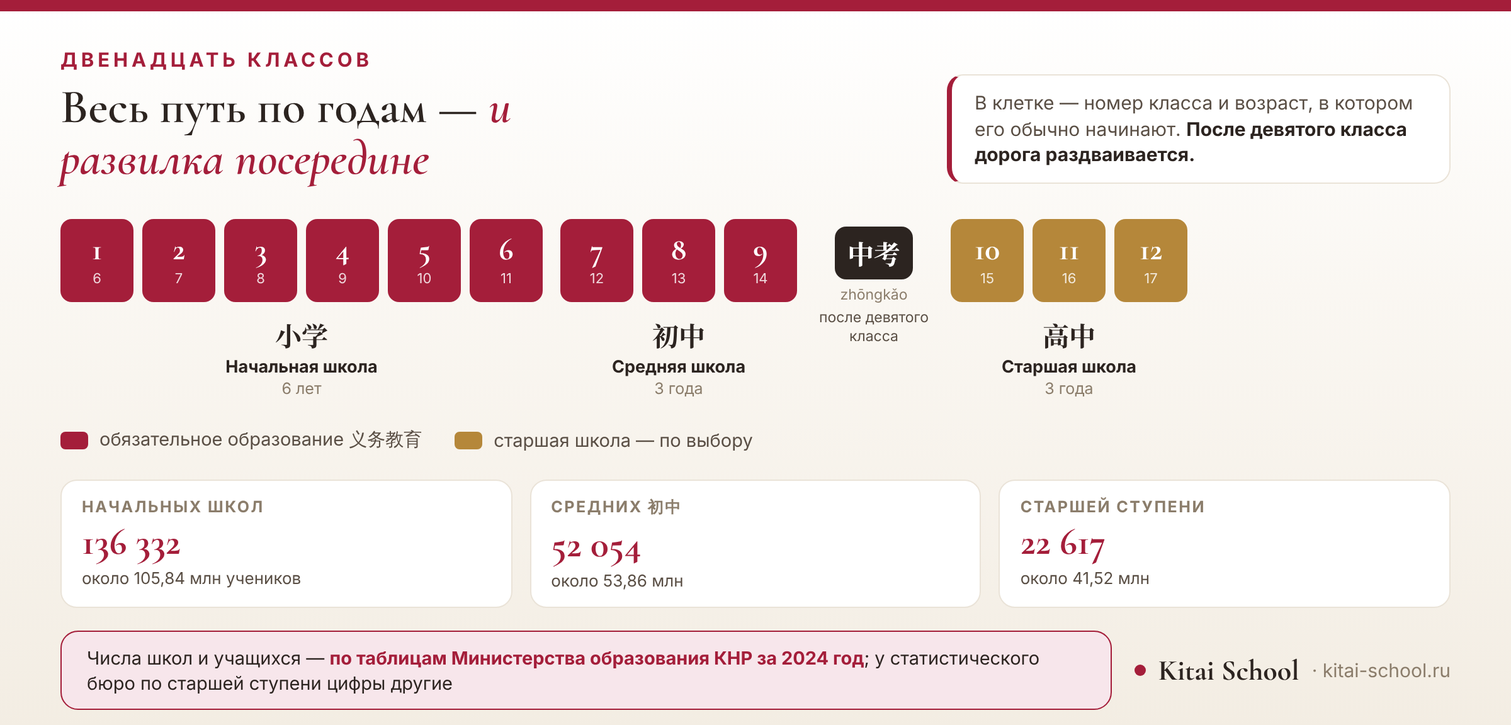
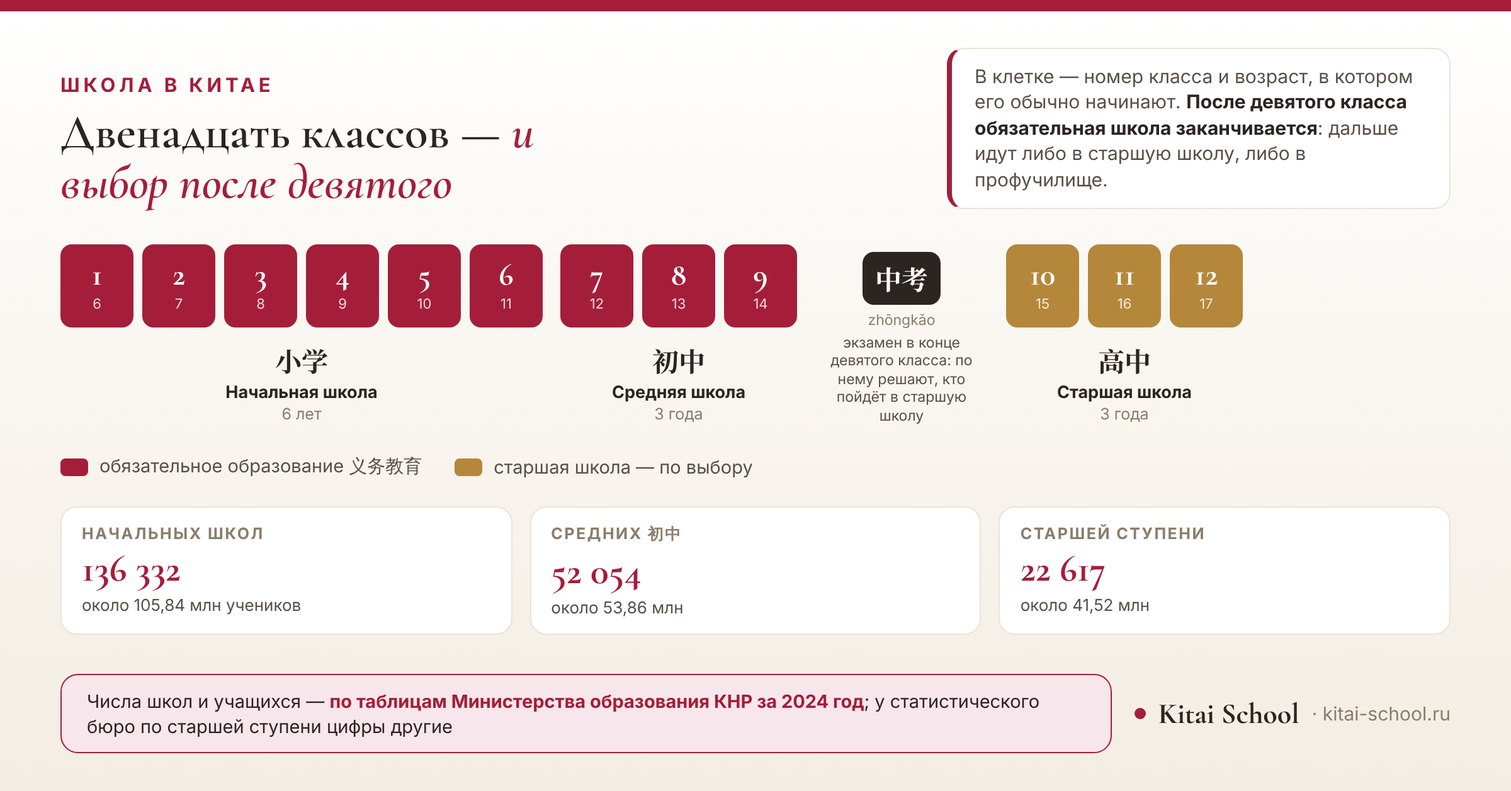
Понятнее про девятый класс: убрана «развилка»
На инфографике заголовок стал «Двенадцать классов — и выбор после
девятого», подсказка объясняет прямо: обязательная школа
заканчивается, дальше либо старшая школа, либо профучилище. Подпись
под 中考 говорит, что решается по этому экзамену.

То же в тексте: «развилка», «дорога раздваивается» и «разные дороги»
заменены прямыми формулировками — в og:description, подводке, FAQ,
alt и JSON-LD. Высота картинки 628.

43 021 знак, инфографика 26,49 %, история 37,41 %.

Claude-Session: https://claude.ai/code/session_017dS7Wuw6MNB5fnZSr6hVh2

diff --git a/content/blog/skolko-klassov-uchatsya-v-kitae.html b/content/blog/skolko-klassov-uchatsya-v-kitae.html
@@ -8,7 +8,7 @@
 <link rel="canonical" href="https://kitai-school.ru/article/skolko-klassov-uchatsya-v-kitae">
 <meta property="og:type" content="article">
 <meta property="og:title" content="Сколько классов учатся в Китае: ступени образования и возраст школьников">
-<meta property="og:description" content="Двенадцать лет, три ступени и один экзамен посередине, после которого дорога раздваивается.">
+<meta property="og:description" content="Двенадцать лет и три ступени, а после девятого класса обязательная школа заканчивается и нужно выбирать.">
 <meta property="og:url" content="https://kitai-school.ru/article/skolko-klassov-uchatsya-v-kitae">
 <meta property="og:image" content="assets/kl-hero.png">
 <meta property="og:image:alt" content="Три плитки ступеней китайской школы: 小学 шесть лет, 初中 три года, 高中 три года">
@@ -16,7 +16,7 @@
 <meta property="og:locale" content="ru_RU">
 <meta name="twitter:card" content="summary_large_image">
 <meta name="twitter:title" content="Сколько классов учатся в Китае: ступени образования и возраст школьников">
-<meta name="twitter:description" content="Двенадцать лет, три ступени и один экзамен посередине, после которого дорога раздваивается.">
+<meta name="twitter:description" content="Двенадцать лет и три ступени, а после девятого класса обязательная школа заканчивается и нужно выбирать.">
 <meta name="twitter:image" content="assets/kl-hero.png">
 <meta name="robots" content="index, follow, max-image-preview:large, max-snippet:-1">
 
@@ -28,7 +28,7 @@
       "@type": "BlogPosting",
       "@id": "https://kitai-school.ru/article/skolko-klassov-uchatsya-v-kitae#article",
       "headline": "Сколько классов учатся в Китае: ступени образования и возраст школьников",
-      "description": "Китайская школа состоит из двенадцати классов и трёх ступеней: начальная 小学 шесть лет с шести до двенадцати, средняя 初中 три года с двенадцати до пятнадцати, старшая 高中 три года с пятнадцати до восемнадцати. Первые девять лет — обязательное образование 义务教育, старшая школа в него не входит, и после девятого класса путь раздваивается. Приводим статистику Министерства образования КНР за 2024 год по числу школ и учащихся на каждой ступени и объясняем, почему она расходится с данными статистического бюро.",
+      "description": "Китайская школа состоит из двенадцати классов и трёх ступеней: начальная 小学 шесть лет с шести до двенадцати, средняя 初中 три года с двенадцати до пятнадцати, старшая 高中 три года с пятнадцати до восемнадцати. Первые девять лет — обязательное образование 义务教育, старшая школа в него не входит, и после девятого класса нужно выбирать между старшей школой и профессиональным училищем. Приводим статистику Министерства образования КНР за 2024 год по числу школ и учащихся на каждой ступени и объясняем, почему она расходится с данными статистического бюро.",
       "image": "assets/kl-hero.png",
       "inLanguage": "ru",
       "datePublished": "2026-11-05",
@@ -69,7 +69,7 @@
         {"@type": "Question", "name": "До какого возраста учатся в старшей школе?", "acceptedAnswer": {"@type": "Answer", "text": "Примерно до восемнадцати. Старшая школа занимает три года и начинается около пятнадцати лет, так что выпускаются в восемнадцать — если ребёнок пошёл в первый класс в шесть и нигде не задерживался на второй год."}},
         {"@type": "Question", "name": "Сколько лет обязательного образования в Китае?", "acceptedAnswer": {"@type": "Answer", "text": "Девять: начальная и средняя школа вместе. Это называется 义务教育. Старшая школа в обязательную часть уже не входит, и вес экзамена после девятого класса идёт именно отсюда."}},
         {"@type": "Question", "name": "Сколько школ в Китае?", "acceptedAnswer": {"@type": "Answer", "text": "По таблицам Министерства образования КНР за 2024 год: 136 332 обычные начальные школы, 52 054 школы ступени 初中 и 22 617 школ старшей ступени, включая профессиональные. Оговорка: у статистического бюро по старшей ступени цифры другие — около 25 тысяч, потому что в его отчёте шире границы категорий."}},
-        {"@type": "Question", "name": "Обязательно ли идти в старшую школу?", "acceptedAnswer": {"@type": "Answer", "text": "Нет. После девятого класса обязательная часть заканчивается, и дальше дорога раздваивается: обычная старшая школа или профессиональное образование. Куда ведёт вторая дорога, у нас разобрано отдельно."}}
+        {"@type": "Question", "name": "Обязательно ли идти в старшую школу?", "acceptedAnswer": {"@type": "Answer", "text": "Нет. После девятого класса обязательная часть заканчивается, и дальше есть два варианта: обычная старшая школа или профессиональное училище. Про второй у нас есть отдельный разбор."}}
       ]
     },
     {
@@ -223,11 +223,11 @@
 
 <figure class="ks-hero"><img src="assets/kl-hero.png" alt="Три плитки ступеней китайской школы: 小学 шесть лет, 初中 три года, 高中 три года" width="1200" height="630"></figure>
 
-<p class="passport">Ответ короткий: двенадцать классов и три ступени. Но за этой схемой есть устройство, из-за которого вопрос и задают: обязательна в Китае только часть школы, а посередине пути стоит экзамен, после которого дети расходятся по разным дорогам. Разберём всё по годам — от первого класса до выпуска, — а в конце посмотрим, сколько в стране школ и школьников по официальной статистике.</p>
+<p class="passport">Ответ короткий: двенадцать классов и три ступени. Но за этой схемой есть устройство, из-за которого вопрос и задают: обязательна в Китае только часть школы, а в середине стоит экзамен, после которого часть детей уходит из школы в профессиональное училище. Разберём всё по годам — от первого класса до выпуска, — а в конце посмотрим, сколько в стране школ и школьников по официальной статистике.</p>
 
 <div class="tldr">
   <b>Коротко</b>
-  <p><b>Двенадцать классов, три ступени:</b> начальная <span class="han">小学</span> — шесть лет, средняя <span class="han">初中</span> — три, старшая <span class="han">高中</span> — ещё три. В школу идут <b>в шесть лет</b>, выпускаются примерно <b>в восемнадцать</b>. Обязательны только <b>первые девять лет</b>; после девятого класса стоит экзамен, и дальше путь раздваивается.</p>
+  <p><b>Двенадцать классов, три ступени:</b> начальная <span class="han">小学</span> — шесть лет, средняя <span class="han">初中</span> — три, старшая <span class="han">高中</span> — ещё три. В школу идут <b>в шесть лет</b>, выпускаются примерно <b>в восемнадцать</b>. Обязательны только <b>первые девять лет</b>; после девятого класса стоит экзамен, и по его результатам решается, кто продолжит учиться в школе.</p>
 </div>
 
 <h2>Короткий ответ: <span class="italic">двенадцать классов и три ступени</span></h2>
@@ -274,7 +274,7 @@
 
 <p>И второе, что стоит держать в голове при чтении карты: <b>она описывает обычный путь без задержек</b>. Второгодничество, более поздний приём и перерывы сдвигают всю цепочку, и тогда возраст на каждой ступени оказывается выше.</p>
 
-<figure class="ks-fig"><img src="assets/kl-info.png" alt="Дорожка из двенадцати клеток-классов с возрастами, развилкой 中考 после девятого класса и числами школ по ступеням" width="1200" height="576"><figcaption>Двенадцать классов по годам: в клетке номер класса и возраст, в котором его обычно начинают.</figcaption></figure>
+<figure class="ks-fig"><img src="assets/kl-info.png" alt="Двенадцать классов по годам с возрастами, экзаменом 中考 после девятого класса и числами школ по ступеням" width="1200" height="628"><figcaption>Двенадцать классов по годам: в клетке номер класса и возраст, в котором его обычно начинают.</figcaption></figure>
 
 <p><b>В школу идут в шесть лет.</b> Эта граница задана законом об обязательном образовании: с шести полных лет ребёнок должен учиться, и отвечают за это родители.</p>
 
@@ -315,17 +315,17 @@
 
 <p><b>Первое: регионы.</b> Встречается деление, где начальная школа длится пять лет, а средняя — четыре. Сумма та же, девять лет обязательного образования, а внутреннее деление другое.</p>
 
-<p><b>Второе: профессиональная дорога.</b> Те, кто после девятого класса уходит в профобразование, учатся по другой программе и к <span class="han">高考</span> не идут. В общую схему они укладываются по годам, но не по содержанию.</p>
+<p><b>Второе: профессиональное училище.</b> Те, кто после девятого класса уходит в профобразование, учатся по другой программе и к <span class="han">高考</span> не идут. В общую схему они укладываются по годам, но не по содержанию.</p>
 
 <p><b>Третье: дошкольная ступень.</b> Детский сад <span class="han">幼儿园</span> в школьные двенадцать лет не входит и обязательным не считается, хотя проходит через него большинство. Как он устроен, у нас разобрано отдельно: <a href="https://kitai-school.ru/article/detskie-sady-v-kitae" target="_blank" rel="noopener">детские сады в Китае</a>.</p>
 
 <h2>Экзамен <span class="italic">посередине пути</span></h2>
 
-<p>Вернёмся к развилке, которую видно на карте, — к экзамену после девятого класса.</p>
+<p>Вернёмся к тому месту на карте, где путь делится, — к экзамену после девятого класса.</p>
 
 <p><b><span class="han">中考</span> (zhōngkǎo) сдают после девятого класса.</b> По его результатам распределяют дальше: в обычную старшую школу или в профессиональное образование.</p>
 
-<p>Смысл у него поэтому другой, чем у школьных экзаменов, к которым мы привыкли. Он решает не «в какой класс», а <b>по какой дороге человек пойдёт дальше</b>, и этот выбор делается в пятнадцать лет.</p>
+<p>Смысл у него поэтому другой, чем у школьных экзаменов, к которым мы привыкли. Он решает не «в какой класс», а <b>останется человек в школе или уйдёт получать профессию</b>, и решается это в пятнадцать лет.</p>
 
 <p>Про вторую дорогу — профессиональное образование — у нас есть отдельный разбор: <a href="https://kitai-school.ru/article/est-li-v-kitae-kolledji" target="_blank" rel="noopener">есть ли в Китае колледжи</a>. Там же про то, чем китайский колледж отличается от университета и можно ли туда поступить иностранцу.</p>
 
@@ -421,7 +421,7 @@
   </details>
   <details class="ksfaq-item">
     <summary class="ksfaq-q"><span>Обязательно ли идти в старшую школу?</span><i class="ksfaq-chev"></i></summary>
-    <div class="ksfaq-a"><p>Нет. После девятого класса обязательная часть заканчивается, и дальше дорога раздваивается: обычная старшая школа или профессиональное образование. Куда ведёт вторая дорога, у нас разобрано отдельно.</p></div>
+    <div class="ksfaq-a"><p>Нет. После девятого класса обязательная часть заканчивается, и дальше есть два варианта: обычная старшая школа или профессиональное училище. Про второй у нас есть отдельный разбор.</p></div>
   </details>
 </div>
 

diff --git a/content/blog/skolko-klassov-uchatsya-v-kitae.TILDA.html b/content/blog/skolko-klassov-uchatsya-v-kitae.TILDA.html
@@ -124,7 +124,7 @@
       "@type": "BlogPosting",
       "@id": "https://kitai-school.ru/article/skolko-klassov-uchatsya-v-kitae#article",
       "headline": "Сколько классов учатся в Китае: ступени образования и возраст школьников",
-      "description": "Китайская школа состоит из двенадцати классов и трёх ступеней: начальная 小学 шесть лет с шести до двенадцати, средняя 初中 три года с двенадцати до пятнадцати, старшая 高中 три года с пятнадцати до восемнадцати. Первые девять лет — обязательное образование 义务教育, старшая школа в него не входит, и после девятого класса путь раздваивается. Приводим статистику Министерства образования КНР за 2024 год по числу школ и учащихся на каждой ступени и объясняем, почему она расходится с данными статистического бюро.",
+      "description": "Китайская школа состоит из двенадцати классов и трёх ступеней: начальная 小学 шесть лет с шести до двенадцати, средняя 初中 три года с двенадцати до пятнадцати, старшая 高中 три года с пятнадцати до восемнадцати. Первые девять лет — обязательное образование 义务教育, старшая школа в него не входит, и после девятого класса нужно выбирать между старшей школой и профессиональным училищем. Приводим статистику Министерства образования КНР за 2024 год по числу школ и учащихся на каждой ступени и объясняем, почему она расходится с данными статистического бюро.",
       "image": "assets/kl-hero.png",
       "inLanguage": "ru",
       "datePublished": "2026-11-05",
@@ -165,7 +165,7 @@
         {"@type": "Question", "name": "До какого возраста учатся в старшей школе?", "acceptedAnswer": {"@type": "Answer", "text": "Примерно до восемнадцати. Старшая школа занимает три года и начинается около пятнадцати лет, так что выпускаются в восемнадцать — если ребёнок пошёл в первый класс в шесть и нигде не задерживался на второй год."}},
         {"@type": "Question", "name": "Сколько лет обязательного образования в Китае?", "acceptedAnswer": {"@type": "Answer", "text": "Девять: начальная и средняя школа вместе. Это называется 义务教育. Старшая школа в обязательную часть уже не входит, и вес экзамена после девятого класса идёт именно отсюда."}},
         {"@type": "Question", "name": "Сколько школ в Китае?", "acceptedAnswer": {"@type": "Answer", "text": "По таблицам Министерства образования КНР за 2024 год: 136 332 обычные начальные школы, 52 054 школы ступени 初中 и 22 617 школ старшей ступени, включая профессиональные. Оговорка: у статистического бюро по старшей ступени цифры другие — около 25 тысяч, потому что в его отчёте шире границы категорий."}},
-        {"@type": "Question", "name": "Обязательно ли идти в старшую школу?", "acceptedAnswer": {"@type": "Answer", "text": "Нет. После девятого класса обязательная часть заканчивается, и дальше дорога раздваивается: обычная старшая школа или профессиональное образование. Куда ведёт вторая дорога, у нас разобрано отдельно."}}
+        {"@type": "Question", "name": "Обязательно ли идти в старшую школу?", "acceptedAnswer": {"@type": "Answer", "text": "Нет. После девятого класса обязательная часть заканчивается, и дальше есть два варианта: обычная старшая школа или профессиональное училище. Про второй у нас есть отдельный разбор."}}
       ]
     },
     {
@@ -197,11 +197,11 @@
 
 <figure class="ks-hero"><img src="assets/kl-hero.png" alt="Три плитки ступеней китайской школы: 小学 шесть лет, 初中 три года, 高中 три года" width="1200" height="630"></figure>
 
-<p class="passport">Ответ короткий: двенадцать классов и три ступени. Но за этой схемой есть устройство, из-за которого вопрос и задают: обязательна в Китае только часть школы, а посередине пути стоит экзамен, после которого дети расходятся по разным дорогам. Разберём всё по годам — от первого класса до выпуска, — а в конце посмотрим, сколько в стране школ и школьников по официальной статистике.</p>
+<p class="passport">Ответ короткий: двенадцать классов и три ступени. Но за этой схемой есть устройство, из-за которого вопрос и задают: обязательна в Китае только часть школы, а в середине стоит экзамен, после которого часть детей уходит из школы в профессиональное училище. Разберём всё по годам — от первого класса до выпуска, — а в конце посмотрим, сколько в стране школ и школьников по официальной статистике.</p>
 
 <div class="tldr">
   <b>Коротко</b>
-  <p><b>Двенадцать классов, три ступени:</b> начальная <span class="han">小学</span> — шесть лет, средняя <span class="han">初中</span> — три, старшая <span class="han">高中</span> — ещё три. В школу идут <b>в шесть лет</b>, выпускаются примерно <b>в восемнадцать</b>. Обязательны только <b>первые девять лет</b>; после девятого класса стоит экзамен, и дальше путь раздваивается.</p>
+  <p><b>Двенадцать классов, три ступени:</b> начальная <span class="han">小学</span> — шесть лет, средняя <span class="han">初中</span> — три, старшая <span class="han">高中</span> — ещё три. В школу идут <b>в шесть лет</b>, выпускаются примерно <b>в восемнадцать</b>. Обязательны только <b>первые девять лет</b>; после девятого класса стоит экзамен, и по его результатам решается, кто продолжит учиться в школе.</p>
 </div>
 
 <h2>Короткий ответ: <span class="italic">двенадцать классов и три ступени</span></h2>
@@ -248,7 +248,7 @@
 
 <p>И второе, что стоит держать в голове при чтении карты: <b>она описывает обычный путь без задержек</b>. Второгодничество, более поздний приём и перерывы сдвигают всю цепочку, и тогда возраст на каждой ступени оказывается выше.</p>
 
-<figure class="ks-fig"><img src="assets/kl-info.png" alt="Дорожка из двенадцати клеток-классов с возрастами, развилкой 中考 после девятого класса и числами школ по ступеням" width="1200" height="576"><figcaption>Двенадцать классов по годам: в клетке номер класса и возраст, в котором его обычно начинают.</figcaption></figure>
+<figure class="ks-fig"><img src="assets/kl-info.png" alt="Двенадцать классов по годам с возрастами, экзаменом 中考 после девятого класса и числами школ по ступеням" width="1200" height="628"><figcaption>Двенадцать классов по годам: в клетке номер класса и возраст, в котором его обычно начинают.</figcaption></figure>
 
 <p><b>В школу идут в шесть лет.</b> Эта граница задана законом об обязательном образовании: с шести полных лет ребёнок должен учиться, и отвечают за это родители.</p>
 
@@ -289,17 +289,17 @@
 
 <p><b>Первое: регионы.</b> Встречается деление, где начальная школа длится пять лет, а средняя — четыре. Сумма та же, девять лет обязательного образования, а внутреннее деление другое.</p>
 
-<p><b>Второе: профессиональная дорога.</b> Те, кто после девятого класса уходит в профобразование, учатся по другой программе и к <span class="han">高考</span> не идут. В общую схему они укладываются по годам, но не по содержанию.</p>
+<p><b>Второе: профессиональное училище.</b> Те, кто после девятого класса уходит в профобразование, учатся по другой программе и к <span class="han">高考</span> не идут. В общую схему они укладываются по годам, но не по содержанию.</p>
 
 <p><b>Третье: дошкольная ступень.</b> Детский сад <span class="han">幼儿园</span> в школьные двенадцать лет не входит и обязательным не считается, хотя проходит через него большинство. Как он устроен, у нас разобрано отдельно: <a href="https://kitai-school.ru/article/detskie-sady-v-kitae" target="_blank" rel="noopener">детские сады в Китае</a>.</p>
 
 <h2>Экзамен <span class="italic">посередине пути</span></h2>
 
-<p>Вернёмся к развилке, которую видно на карте, — к экзамену после девятого класса.</p>
+<p>Вернёмся к тому месту на карте, где путь делится, — к экзамену после девятого класса.</p>
 
 <p><b><span class="han">中考</span> (zhōngkǎo) сдают после девятого класса.</b> По его результатам распределяют дальше: в обычную старшую школу или в профессиональное образование.</p>
 
-<p>Смысл у него поэтому другой, чем у школьных экзаменов, к которым мы привыкли. Он решает не «в какой класс», а <b>по какой дороге человек пойдёт дальше</b>, и этот выбор делается в пятнадцать лет.</p>
+<p>Смысл у него поэтому другой, чем у школьных экзаменов, к которым мы привыкли. Он решает не «в какой класс», а <b>останется человек в школе или уйдёт получать профессию</b>, и решается это в пятнадцать лет.</p>
 
 <p>Про вторую дорогу — профессиональное образование — у нас есть отдельный разбор: <a href="https://kitai-school.ru/article/est-li-v-kitae-kolledji" target="_blank" rel="noopener">есть ли в Китае колледжи</a>. Там же про то, чем китайский колледж отличается от университета и можно ли туда поступить иностранцу.</p>
 
@@ -395,7 +395,7 @@
   </details>
   <details class="ksfaq-item">
     <summary class="ksfaq-q"><span>Обязательно ли идти в старшую школу?</span><i class="ksfaq-chev"></i></summary>
-    <div class="ksfaq-a"><p>Нет. После девятого класса обязательная часть заканчивается, и дальше дорога раздваивается: обычная старшая школа или профессиональное образование. Куда ведёт вторая дорога, у нас разобрано отдельно.</p></div>
+    <div class="ksfaq-a"><p>Нет. После девятого класса обязательная часть заканчивается, и дальше есть два варианта: обычная старшая школа или профессиональное училище. Про второй у нас есть отдельный разбор.</p></div>
   </details>
 </div>
 

diff --git a/content/build-kl.py b/content/build-kl.py
@@ -10,8 +10,8 @@ U = "https://kitai-school.ru/article/"
 HERO = "assets/kl-hero.png"
 FIG = "assets/kl-info.png"
 HERO_ALT = ("Три плитки ступеней китайской школы: 小学 шесть лет, 初中 три года, 高中 три года")
-FIG_ALT = ("Дорожка из двенадцати клеток-классов с возрастами, развилкой 中考 после девятого "
-           "класса и числами школ по ступеням")
+FIG_ALT = ("Двенадцать классов по годам с возрастами, экзаменом 中考 после девятого класса "
+           "и числами школ по ступеням")
 
 src = open(SRC, encoding="utf-8").read()
 css = re.search(r'<link rel="preconnect".*?</style>', src, re.S).group(0)
@@ -34,8 +34,8 @@ DESC = ("Китайское школьное образование строит
         "18 лет. Разбираем ступени — начальную, среднюю и старшую школу, — возраст перехода "
         "между ними, где заканчивается обязательная часть и сколько в стране школ и "
         "школьников по официальной статистике. С лексикой по теме.")
-OGD = ("Двенадцать лет, три ступени и один экзамен посередине, после которого дорога "
-       "раздваивается.")
+OGD = ("Двенадцать лет и три ступени, а после девятого класса обязательная школа "
+       "заканчивается и нужно выбирать.")
 
 # ------------------------------------------------- данные: три ступени
 # (знак, чтение, русское имя, лет, возраст начала, обязательная ли)
@@ -124,9 +124,9 @@ FAQ = [
   "Оговорка: у статистического бюро по старшей ступени цифры другие — около 25 тысяч, "
   "потому что в его отчёте шире границы категорий."),
  ("Обязательно ли идти в старшую школу?",
-  "Нет. После девятого класса обязательная часть заканчивается, и дальше дорога "
-  "раздваивается: обычная старшая школа или профессиональное образование. Куда ведёт вторая "
-  "дорога, у нас разобрано отдельно."),
+  "Нет. После девятого класса обязательная часть заканчивается, и дальше есть два варианта: "
+  "обычная старшая школа или профессиональное училище. Про второй у нас есть отдельный "
+  "разбор."),
 ]
 assert len(FAQ) == 6, "вопросов должно быть шесть"
 
@@ -170,7 +170,7 @@ HEAD = """<!DOCTYPE html>
       "@type": "BlogPosting",
       "@id": "%(u)s%(slug)s#article",
       "headline": "%(title)s",
-      "description": "Китайская школа состоит из двенадцати классов и трёх ступеней: начальная 小学 шесть лет с шести до двенадцати, средняя 初中 три года с двенадцати до пятнадцати, старшая 高中 три года с пятнадцати до восемнадцати. Первые девять лет — обязательное образование 义务教育, старшая школа в него не входит, и после девятого класса путь раздваивается. Приводим статистику Министерства образования КНР за 2024 год по числу школ и учащихся на каждой ступени и объясняем, почему она расходится с данными статистического бюро.",
+      "description": "Китайская школа состоит из двенадцати классов и трёх ступеней: начальная 小学 шесть лет с шести до двенадцати, средняя 初中 три года с двенадцати до пятнадцати, старшая 高中 три года с пятнадцати до восемнадцати. Первые девять лет — обязательное образование 义务教育, старшая школа в него не входит, и после девятого класса нужно выбирать между старшей школой и профессиональным училищем. Приводим статистику Министерства образования КНР за 2024 год по числу школ и учащихся на каждой ступени и объясняем, почему она расходится с данными статистического бюро.",
       "image": "%(hero)s",
       "inLanguage": "ru",
       "datePublished": "2026-11-05",
@@ -242,11 +242,11 @@ BODY = """<body>
 
 <figure class="ks-hero"><img src="HERO_SRC" alt="HERO_ALT" width="1200" height="630"></figure>
 
-<p class="passport">Ответ короткий: двенадцать классов и три ступени. Но за этой схемой есть устройство, из-за которого вопрос и задают: обязательна в Китае только часть школы, а посередине пути стоит экзамен, после которого дети расходятся по разным дорогам. Разберём всё по годам — от первого класса до выпуска, — а в конце посмотрим, сколько в стране школ и школьников по официальной статистике.</p>
+<p class="passport">Ответ короткий: двенадцать классов и три ступени. Но за этой схемой есть устройство, из-за которого вопрос и задают: обязательна в Китае только часть школы, а в середине стоит экзамен, после которого часть детей уходит из школы в профессиональное училище. Разберём всё по годам — от первого класса до выпуска, — а в конце посмотрим, сколько в стране школ и школьников по официальной статистике.</p>
 
 <div class="tldr">
   <b>Коротко</b>
-  <p><b>Двенадцать классов, три ступени:</b> начальная <span class="han">小学</span> — шесть лет, средняя <span class="han">初中</span> — три, старшая <span class="han">高中</span> — ещё три. В школу идут <b>в шесть лет</b>, выпускаются примерно <b>в восемнадцать</b>. Обязательны только <b>первые девять лет</b>; после девятого класса стоит экзамен, и дальше путь раздваивается.</p>
+  <p><b>Двенадцать классов, три ступени:</b> начальная <span class="han">小学</span> — шесть лет, средняя <span class="han">初中</span> — три, старшая <span class="han">高中</span> — ещё три. В школу идут <b>в шесть лет</b>, выпускаются примерно <b>в восемнадцать</b>. Обязательны только <b>первые девять лет</b>; после девятого класса стоит экзамен, и по его результатам решается, кто продолжит учиться в школе.</p>
 </div>
 
 <h2>Короткий ответ: <span class="italic">двенадцать классов и три ступени</span></h2>
@@ -291,7 +291,7 @@ STAGE_ROWS
 
 <p>И второе, что стоит держать в голове при чтении карты: <b>она описывает обычный путь без задержек</b>. Второгодничество, более поздний приём и перерывы сдвигают всю цепочку, и тогда возраст на каждой ступени оказывается выше.</p>
 
-<figure class="ks-fig"><img src="FIG_SRC" alt="FIG_ALT" width="1200" height="576"><figcaption>Двенадцать классов по годам: в клетке номер класса и возраст, в котором его обычно начинают.</figcaption></figure>
+<figure class="ks-fig"><img src="FIG_SRC" alt="FIG_ALT" width="1200" height="628"><figcaption>Двенадцать классов по годам: в клетке номер класса и возраст, в котором его обычно начинают.</figcaption></figure>
 
 <p><b>В школу идут в шесть лет.</b> Эта граница задана законом об обязательном образовании: с шести полных лет ребёнок должен учиться, и отвечают за это родители.</p>
 
@@ -325,17 +325,17 @@ STORY_HTML
 
 <p><b>Первое: регионы.</b> Встречается деление, где начальная школа длится пять лет, а средняя — четыре. Сумма та же, девять лет обязательного образования, а внутреннее деление другое.</p>
 
-<p><b>Второе: профессиональная дорога.</b> Те, кто после девятого класса уходит в профобразование, учатся по другой программе и к <span class="han">高考</span> не идут. В общую схему они укладываются по годам, но не по содержанию.</p>
+<p><b>Второе: профессиональное училище.</b> Те, кто после девятого класса уходит в профобразование, учатся по другой программе и к <span class="han">高考</span> не идут. В общую схему они укладываются по годам, но не по содержанию.</p>
 
 <p><b>Третье: дошкольная ступень.</b> Детский сад <span class="han">幼儿园</span> в школьные двенадцать лет не входит и обязательным не считается, хотя проходит через него большинство. Как он устроен, у нас разобрано отдельно: SAD_LINK.</p>
 
 <h2>Экзамен <span class="italic">посередине пути</span></h2>
 
-<p>Вернёмся к развилке, которую видно на карте, — к экзамену после девятого класса.</p>
+<p>Вернёмся к тому месту на карте, где путь делится, — к экзамену после девятого класса.</p>
 
 <p><b><span class="han">中考</span> (zhōngkǎo) сдают после девятого класса.</b> По его результатам распределяют дальше: в обычную старшую школу или в профессиональное образование.</p>
 
-<p>Смысл у него поэтому другой, чем у школьных экзаменов, к которым мы привыкли. Он решает не «в какой класс», а <b>по какой дороге человек пойдёт дальше</b>, и этот выбор делается в пятнадцать лет.</p>
+<p>Смысл у него поэтому другой, чем у школьных экзаменов, к которым мы привыкли. Он решает не «в какой класс», а <b>останется человек в школе или уйдёт получать профессию</b>, и решается это в пятнадцать лет.</p>
 
 <p>Про вторую дорогу — профессиональное образование — у нас есть отдельный разбор: KOLLEDJI_LINK. Там же про то, чем китайский колледж отличается от университета и можно ли туда поступить иностранцу.</p>
 

diff --git a/content/img-kl.py b/content/img-kl.py
@@ -18,8 +18,8 @@ STAGES = [
     ("初中", "chūzhōng", "Средняя школа", 3, 12, True),
     ("高中", "gāozhōng", "Старшая школа", 3, 15, False),
 ]
-EXAMS = {9: ("中考", "zhōngkǎo", "после девятого класса"),
-         12: ("高考", "gāokǎo", "в конце школы")}
+EXAMS = {9: ("中考", "zhōngkǎo", "экзамен в конце девятого класса: по нему решают, кто пойдёт в старшую школу"),
+         12: ("高考", "gāokǎo", "выпускной экзамен, по нему поступают в вузы")}
 
 # ── проверки данных
 assert len(STAGES) == 3, "ступеней должно быть три"
@@ -164,7 +164,7 @@ h2 i{font-style:italic;color:var(--brick)}
 .lbl .nm{display:block;font-size:13.5px;font-weight:700;color:var(--ink);margin-top:2px}
 .lbl .yy{display:block;font-size:12.5px;color:var(--taupe);margin-top:2px}
 
-.exam{flex:0 0 94px;display:flex;flex-direction:column;align-items:center;padding-top:6px}
+.exam{flex:0 0 138px;display:flex;flex-direction:column;align-items:center;padding-top:6px}
 .exam .zh{font-family:'Noto Serif SC',serif;font-weight:700;font-size:21px;color:#fff;background:var(--ink);padding:6px 10px;border-radius:9px}
 .exam .py{font-size:11.5px;color:var(--taupe);margin-top:5px}
 .exam .cm{font-size:11.5px;color:var(--ink-2);margin-top:4px;text-align:center;line-height:1.26}
@@ -192,10 +192,10 @@ h2 i{font-style:italic;color:var(--brick)}
 <div class="wrap">
   <div class="top">
     <div>
-      <div class="eyebrow">Двенадцать классов</div>
-      <h2>Весь путь по годам — <i>и развилка посередине</i></h2>
+      <div class="eyebrow">Школа в Китае</div>
+      <h2>Двенадцать классов — <i>и выбор после девятого</i></h2>
     </div>
-    <div class="hint">В клетке — номер класса и возраст, в котором его обычно начинают. <b>После девятого класса дорога раздваивается.</b></div>
+    <div class="hint">В клетке — номер класса и возраст, в котором его обычно начинают. <b>После девятого класса обязательная школа заканчивается</b>: дальше идут либо в старшую школу, либо в профучилище.</div>
   </div>
 
   <div class="road">%(cells)s</div>
@@ -212,7 +212,7 @@ h2 i{font-style:italic;color:var(--brick)}
     <div class="brand"><span class="dot2"></span><b>Kitai School</b><span>&middot; kitai-school.ru</span></div>
   </div>
 </div>
-</body></html>""" % dict(fonts=FONTS, vars=VARS, h=576, cells=cells, stats=stat_rows)
+</body></html>""" % dict(fonts=FONTS, vars=VARS, h=628, cells=cells, stats=stat_rows)
 
 open(S + "kl-info.html", "w", encoding="utf-8").write(info)
 
